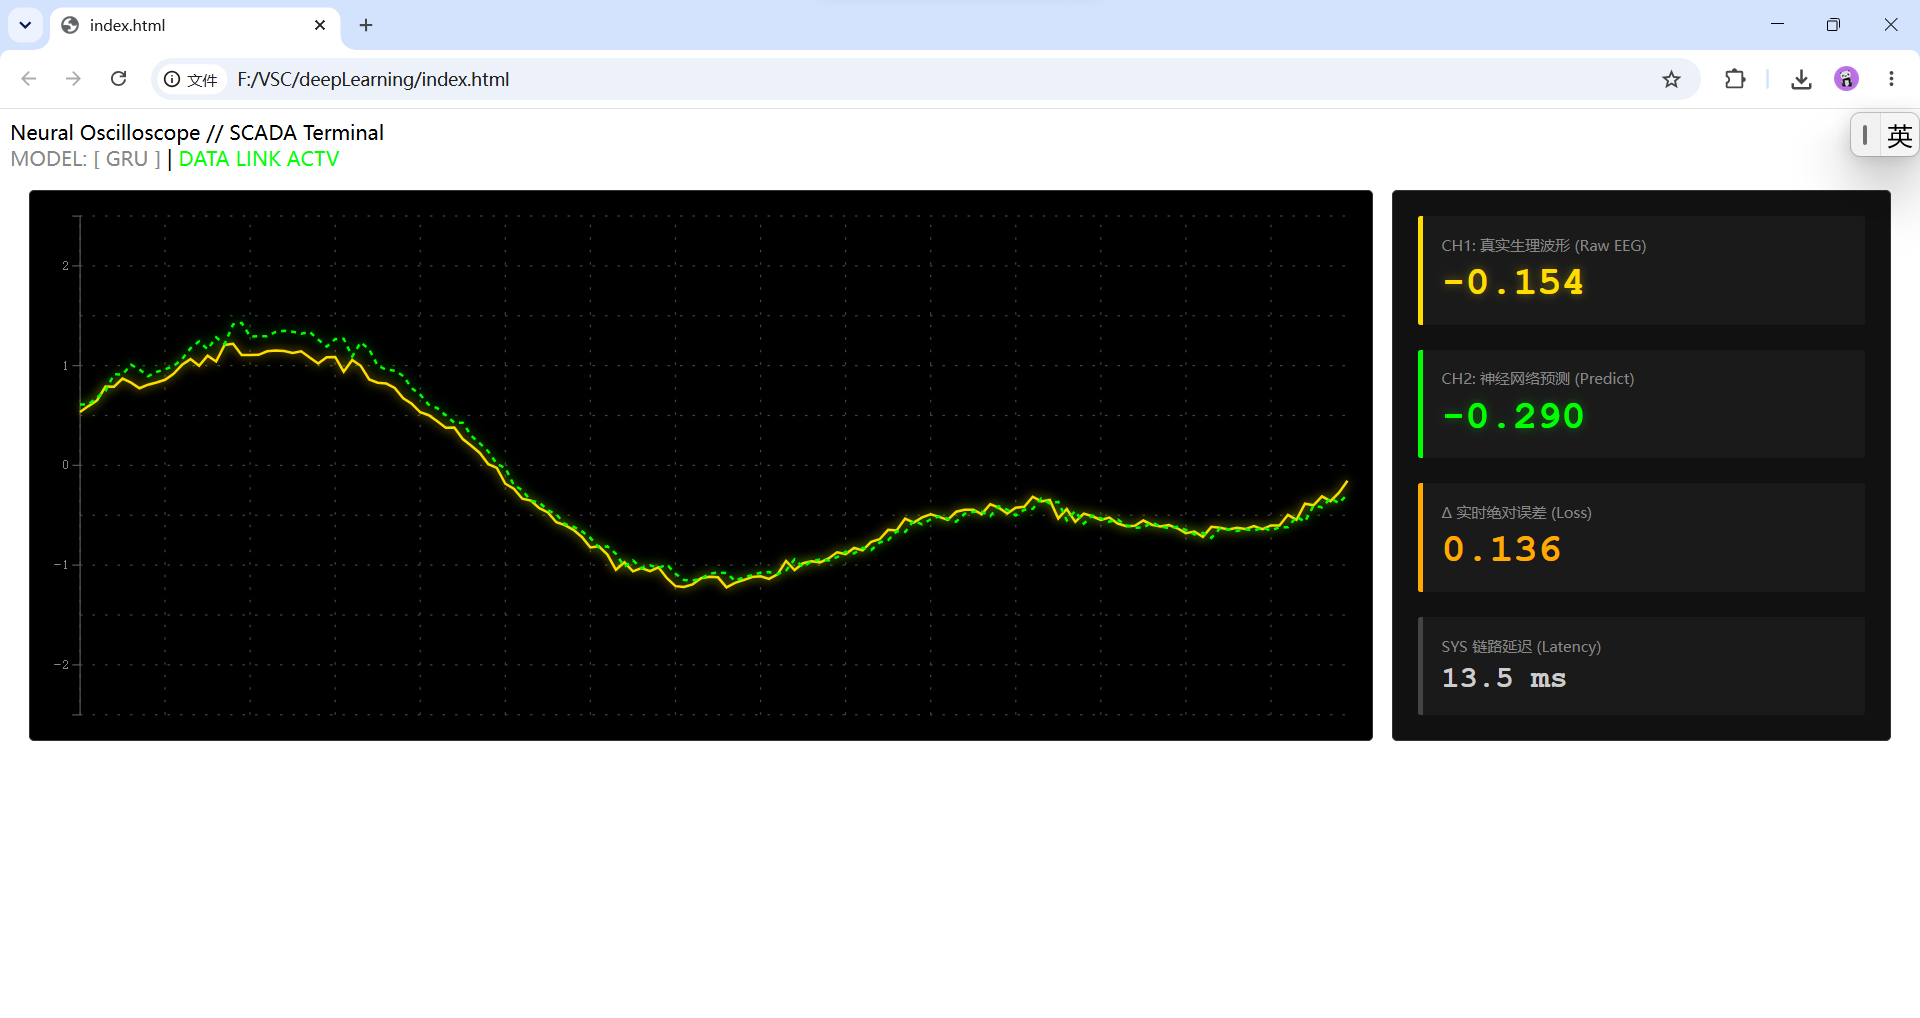
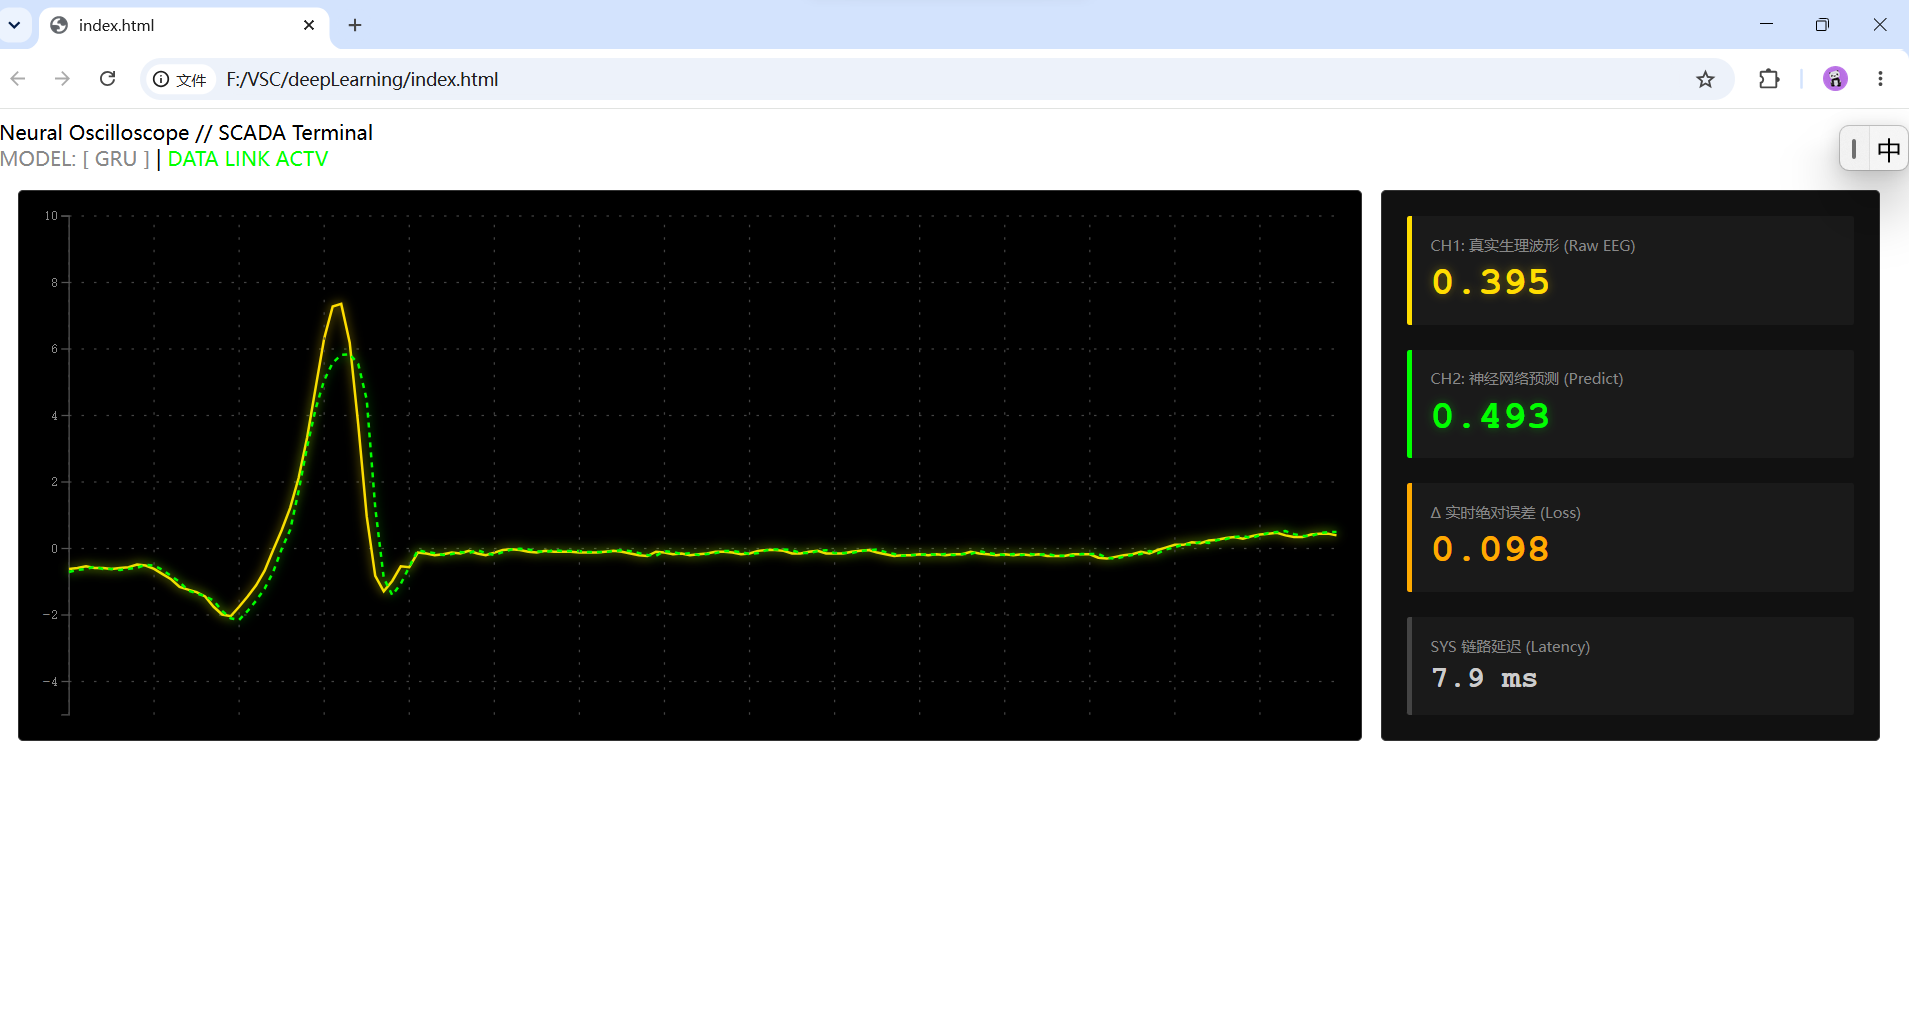
Switch default model to GRU; add weights and results
Change default MODEL_TYPE from 'LSTM' to 'GRU' in train.py and sever.py. Add pre-trained weights and updated weight files under MIT-BIH_data/weight (sleep_gru_*.pth, sleep_lstm_*.pth, sleep_rnn_*.pth), add result images and oscilloscope_demo.gif under MIT-BIH_data/result, and update some existing result images. This makes GRU the default for training and serving.

diff --git a/sever.py b/sever.py
@@ -48,7 +48,7 @@ from data_loader import load_mitbih_signal
 # ==========================================
 # 工业现场配置 — SCADA 遥测终端参数
 # ==========================================
-MODEL_TYPE = 'LSTM'  # 可选: 'RNN' | 'GRU' | 'LSTM'，与训练脚本保持一致
+MODEL_TYPE = 'GRU'  # 可选: 'RNN' | 'GRU' | 'LSTM'，与训练脚本保持一致
 WEIGHTS_PATH = f'MIT-BIH_data\\weight\\sleep_{MODEL_TYPE.lower()}_weights.pth'
 HOST = "127.0.0.1"
 PORT = 8765

diff --git a/train.py b/train.py
@@ -50,7 +50,7 @@ from data_loader import get_dataloaders
 # 配置：通过修改变量一键切换 RNN / GRU / LSTM
 # 可选值: 'RNN' | 'GRU' | 'LSTM'
 # ==========================================
-MODEL_TYPE = 'LSTM'
+MODEL_TYPE = 'GRU'
 
 # ---- 数据配置 ----
 SEQ_LEN = 500                # 序列长度（滑动窗口大小，单位：采样点）